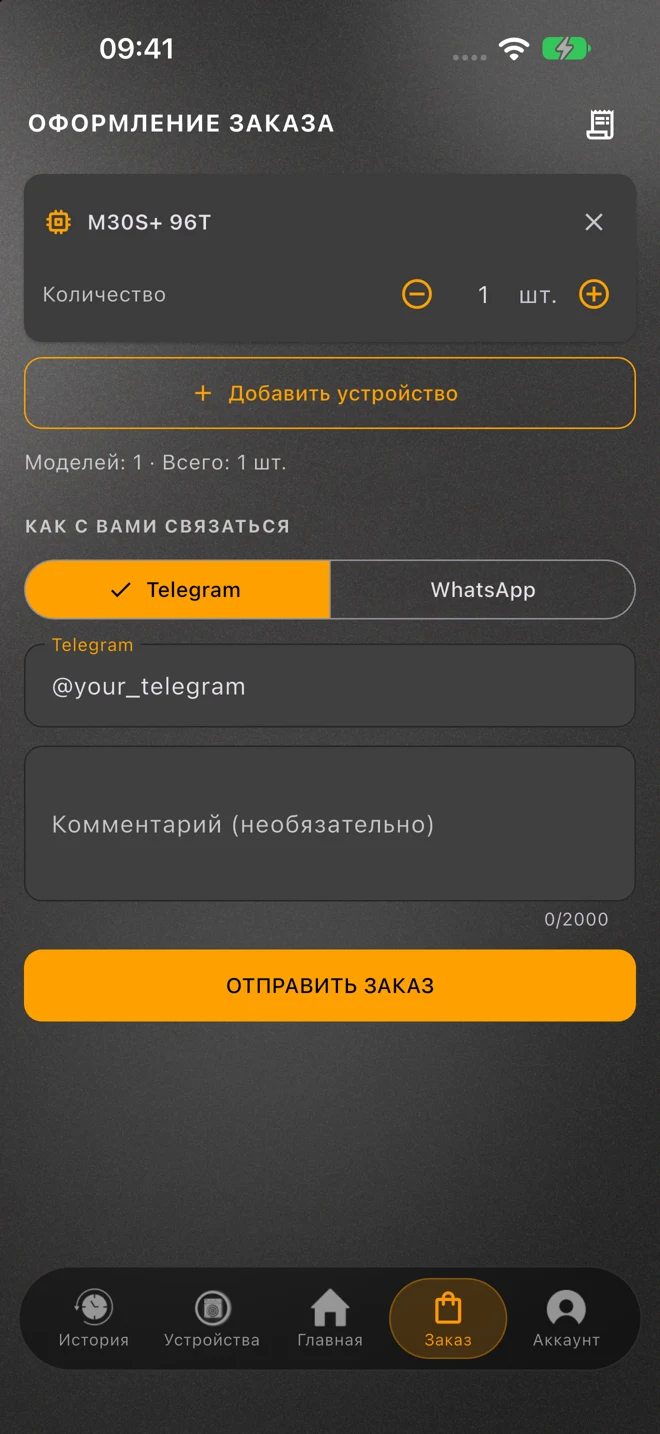
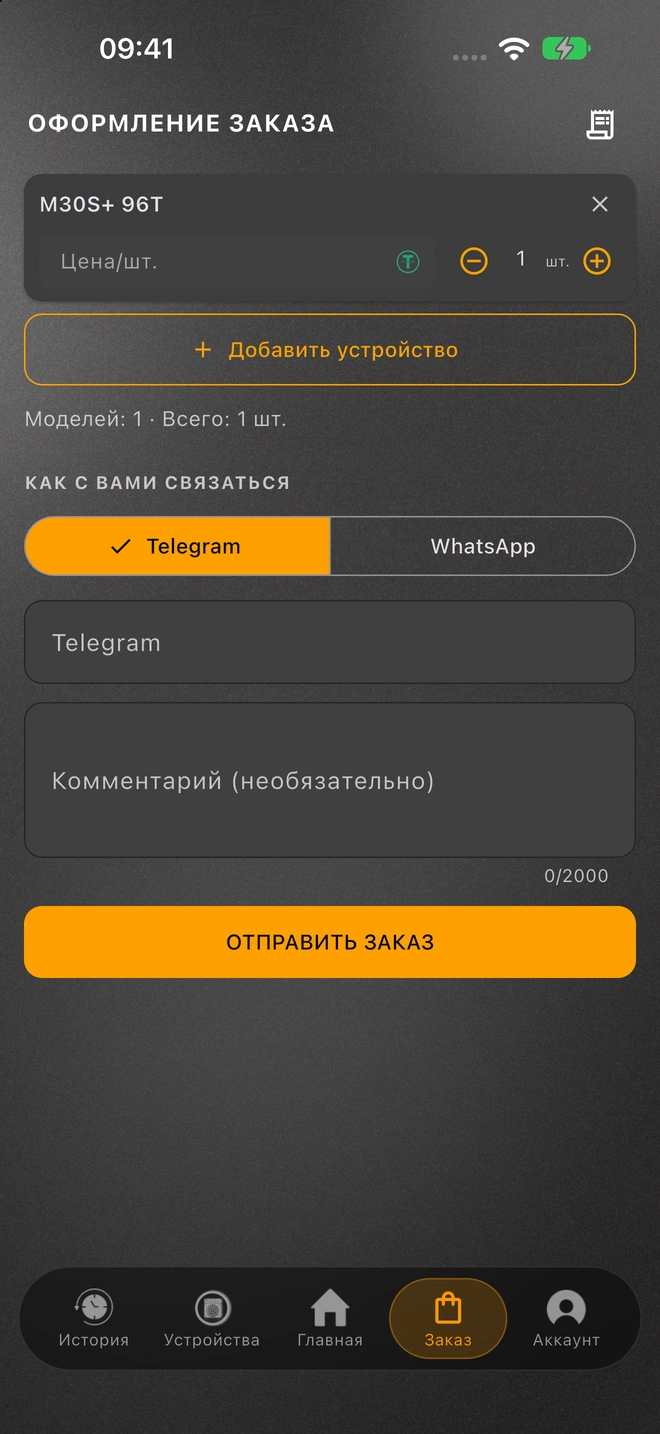
Update order screenshot and optional device price details

diff --git a/index.html b/index.html
@@ -38,7 +38,7 @@
         </div>
         <div class="hero-phones" aria-label="Оформление заказа и расчёт доходности в RootRoot">
           <div class="phone phone-back"><img src="assets/01_home.webp" alt="Калькулятор доходности RootRoot" width="660" height="1434"></div>
-          <div class="phone phone-front"><img src="assets/03_order.webp" alt="Оформление заказа: оборудование, количество и контакт для связи" width="660" height="1434" fetchpriority="high"></div>
+          <div class="phone phone-front"><img src="assets/03_order.webp?v=20261006-price" alt="Оформление заказа: оборудование, количество, своя цена за устройство и контакт для связи" width="660" height="1434" fetchpriority="high"></div>
           <div class="phone-caption"><span aria-hidden="true">✓</span> Выбрали. Рассчитали. Заказали.</div>
         </div>
       </div>
@@ -54,7 +54,7 @@
         <article class="feature feature-highlight">
           <span class="feature-icon" aria-hidden="true"><svg viewBox="0 0 32 32"><path d="M7 9h18l2 19H5zM11 10V7a5 5 0 0 1 10 0v3M11 19l3 3 7-7"/></svg></span>
           <h3>Оформление заказа</h3>
-          <p>Добавьте ASIC, укажите количество и оставьте контакт для связи. Отправьте заказ прямо из приложения.</p>
+          <p>Добавьте ASIC, укажите количество и при желании предложите свою цену за каждое устройство в USDT или рублях. Оставьте контакт и отправьте заказ прямо из приложения.</p>
           <a class="feature-link" href="#order">Как это работает <span aria-hidden="true">→</span></a>
         </article>
         <article class="feature">
@@ -78,10 +78,10 @@
     <section class="order-section container" id="order" aria-labelledby="order-title">
       <div class="order-heading">
         <div><p class="eyebrow">ОФОРМЛЕНИЕ ЗАКАЗА</p><h2 id="order-title">Оборудование выбрано.<br>Следующий шаг — заказ.</h2></div>
-        <p>Соберите нужные устройства и оставьте удобный способ связи. Заказ отправляется прямо из приложения.</p>
+        <p>Соберите нужные устройства, при желании предложите свою цену за каждое и оставьте удобный способ связи. Заказ отправляется прямо из приложения.</p>
       </div>
       <ol class="order-steps">
-        <li><span class="step-number" aria-hidden="true">01</span><h3>Добавьте оборудование</h3><p>Выберите ASIC и укажите количество. В одном заказе можно собрать несколько моделей.</p></li>
+        <li><span class="step-number" aria-hidden="true">01</span><h3>Добавьте оборудование</h3><p>Выберите ASIC и укажите количество. При желании предложите свою цену за 1 шт. в USDT или рублях. В одном заказе можно собрать несколько моделей.</p></li>
         <li><span class="step-number" aria-hidden="true">02</span><h3>Оставьте контакт</h3><p>Выберите Telegram или WhatsApp. При необходимости добавьте комментарий к заказу.</p></li>
         <li><span class="step-number" aria-hidden="true">03</span><h3>Отправьте заказ</h3><p>Проверьте выбранные устройства и нажмите «Отправить заказ».</p></li>
       </ol>
@@ -94,7 +94,7 @@
         <div class="gallery-controls"><button type="button" data-scroll="-1" aria-label="Предыдущие скриншоты" aria-controls="screenshot-track">‹</button><button type="button" data-scroll="1" aria-label="Следующие скриншоты" aria-controls="screenshot-track">›</button></div>
       </div>
       <div class="screenshot-track" id="screenshot-track" tabindex="0" role="region" aria-label="Скриншоты приложения, прокрутите для просмотра">
-        <figure><div class="phone"><img src="assets/03_order.webp" alt="Оформление заказа на оборудование" width="660" height="1434" loading="lazy"></div><figcaption><span>01</span> Оформление заказа</figcaption></figure>
+        <figure><div class="phone"><img src="assets/03_order.webp?v=20261006-price" alt="Оформление заказа с предложением своей цены за устройство в USDT или рублях" width="660" height="1434" loading="lazy"></div><figcaption><span>01</span> Заказ со своей ценой</figcaption></figure>
         <figure><div class="phone"><img src="assets/02_devices.webp" alt="Экран списка устройств" width="660" height="1434" loading="lazy"></div><figcaption><span>02</span> Каталог устройств</figcaption></figure>
         <figure><div class="phone"><img src="assets/01_home.webp" alt="Экран калькулятора" width="660" height="1434" loading="lazy"></div><figcaption><span>03</span> Расчёт доходности</figcaption></figure>
         <figure><div class="phone"><img src="assets/05_history.webp" alt="Сохранённые расчёты" width="660" height="1434" loading="lazy"></div><figcaption><span>04</span> История расчётов</figcaption></figure>
